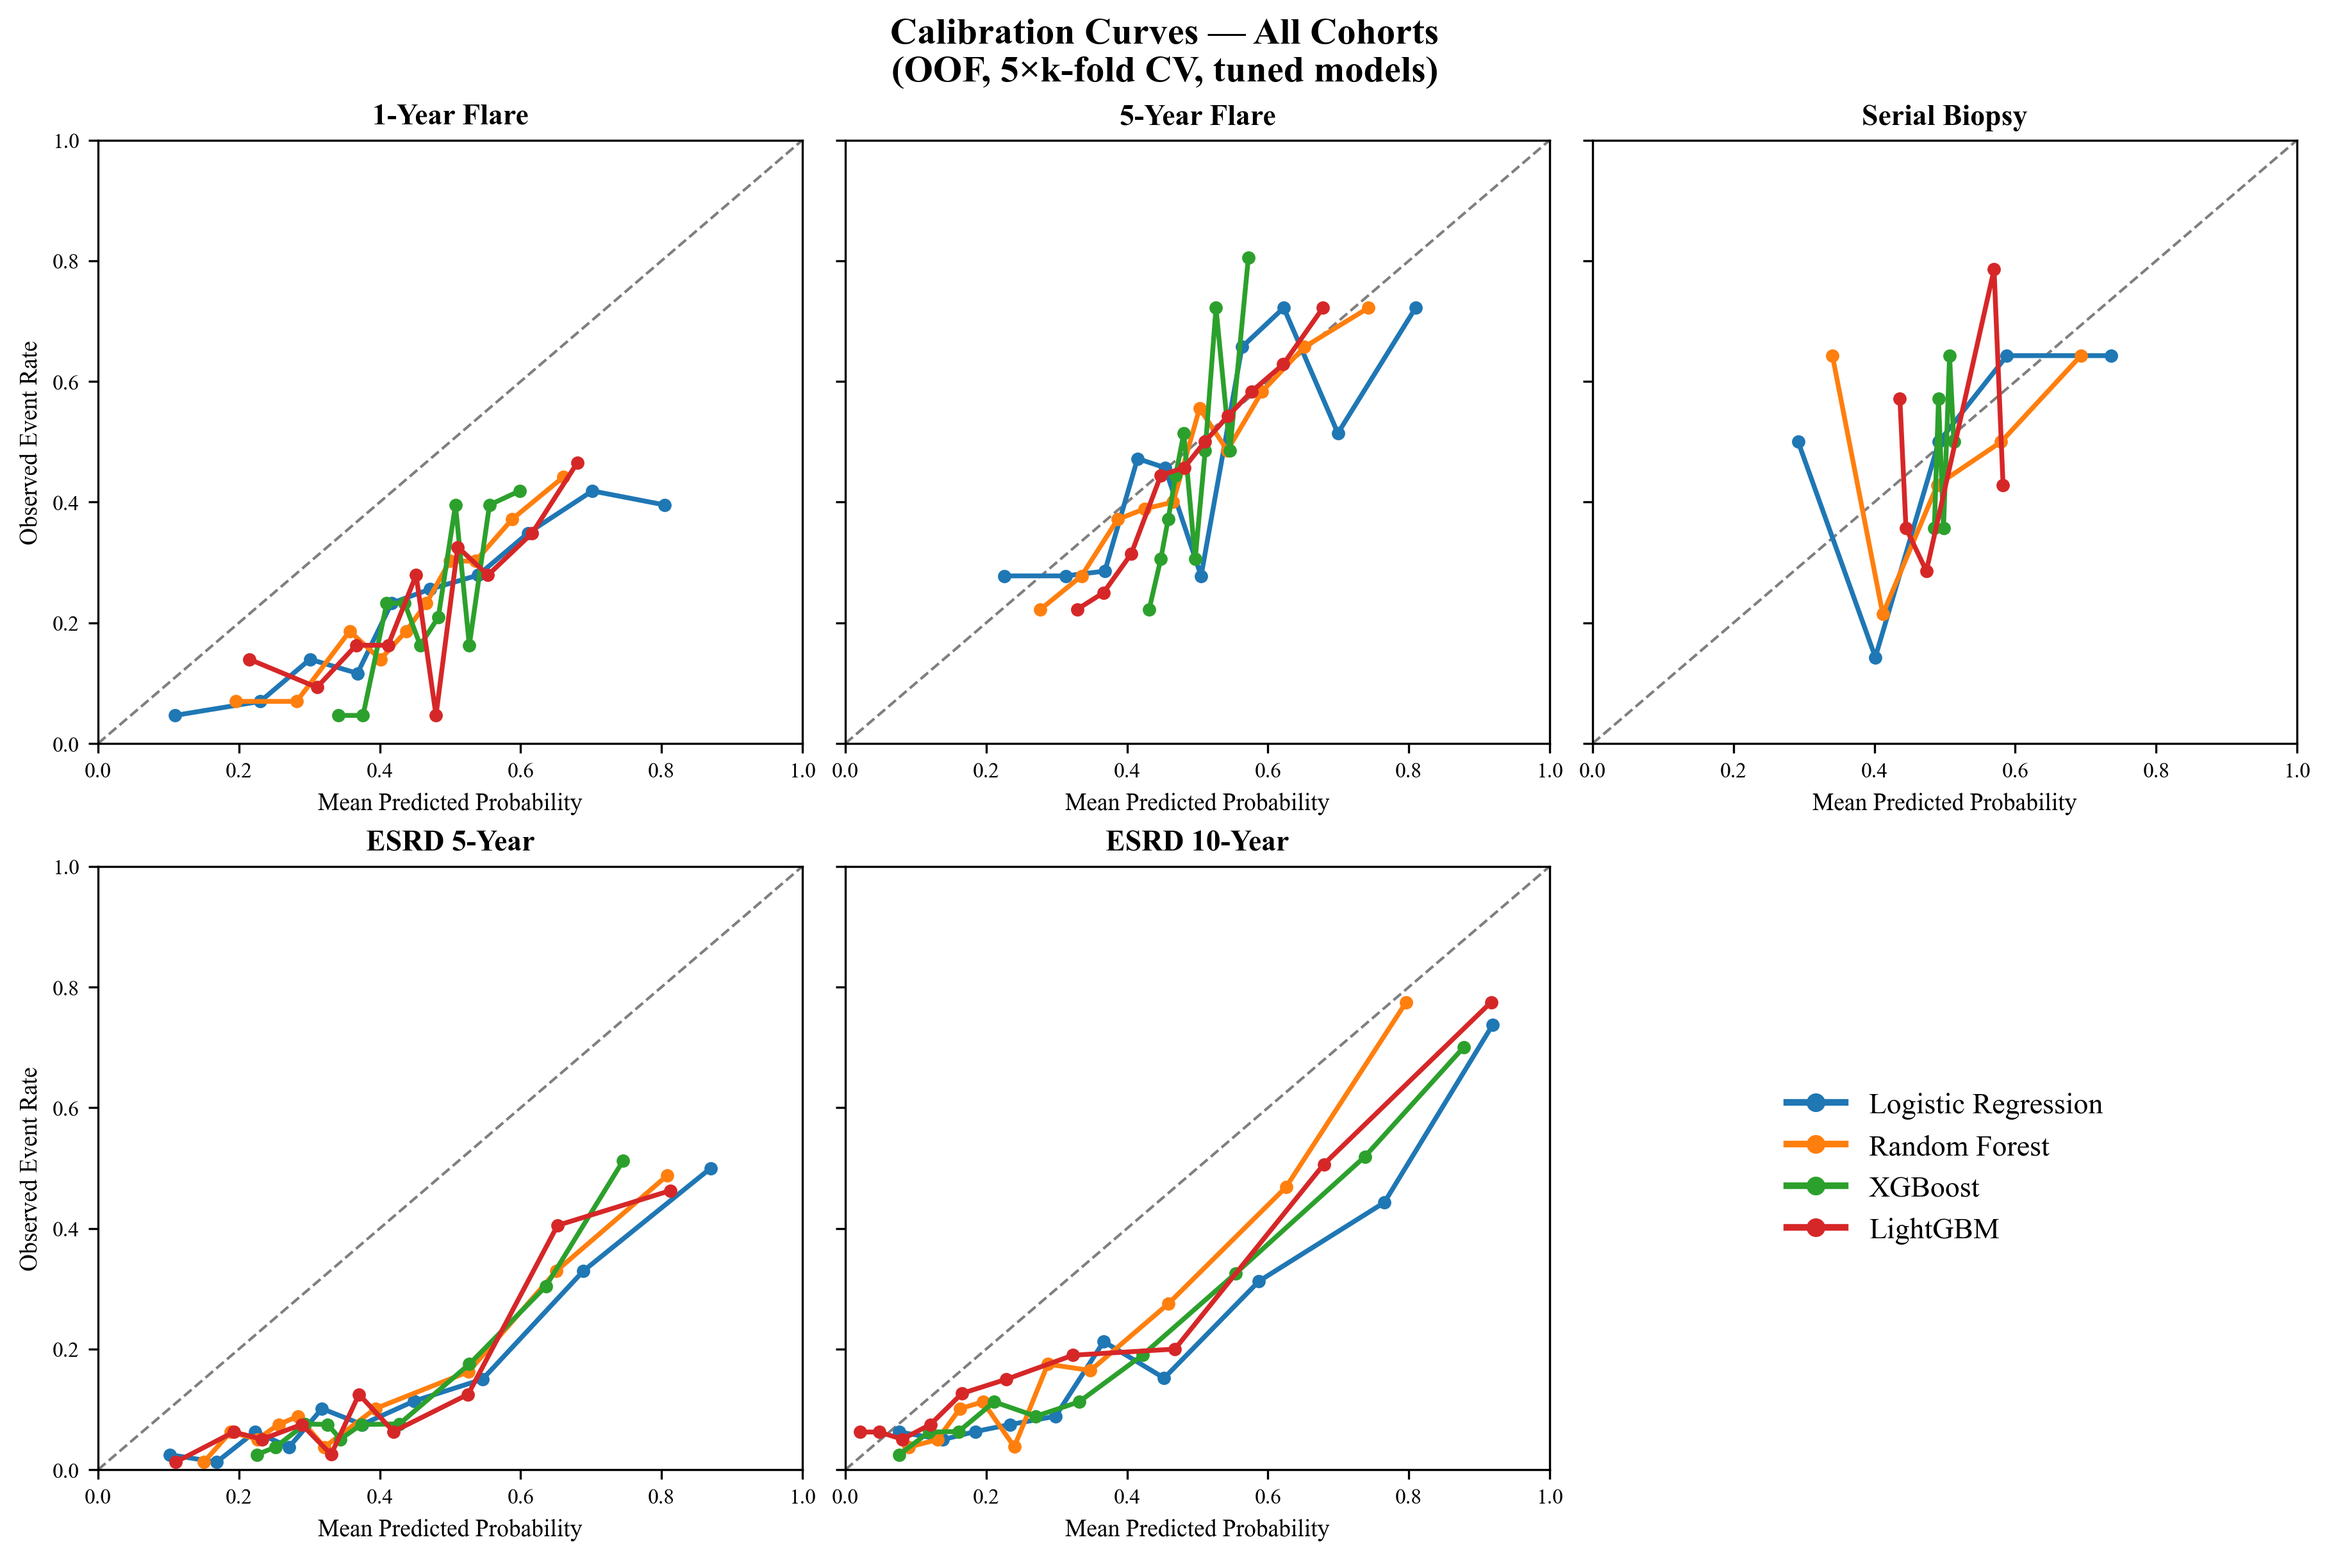
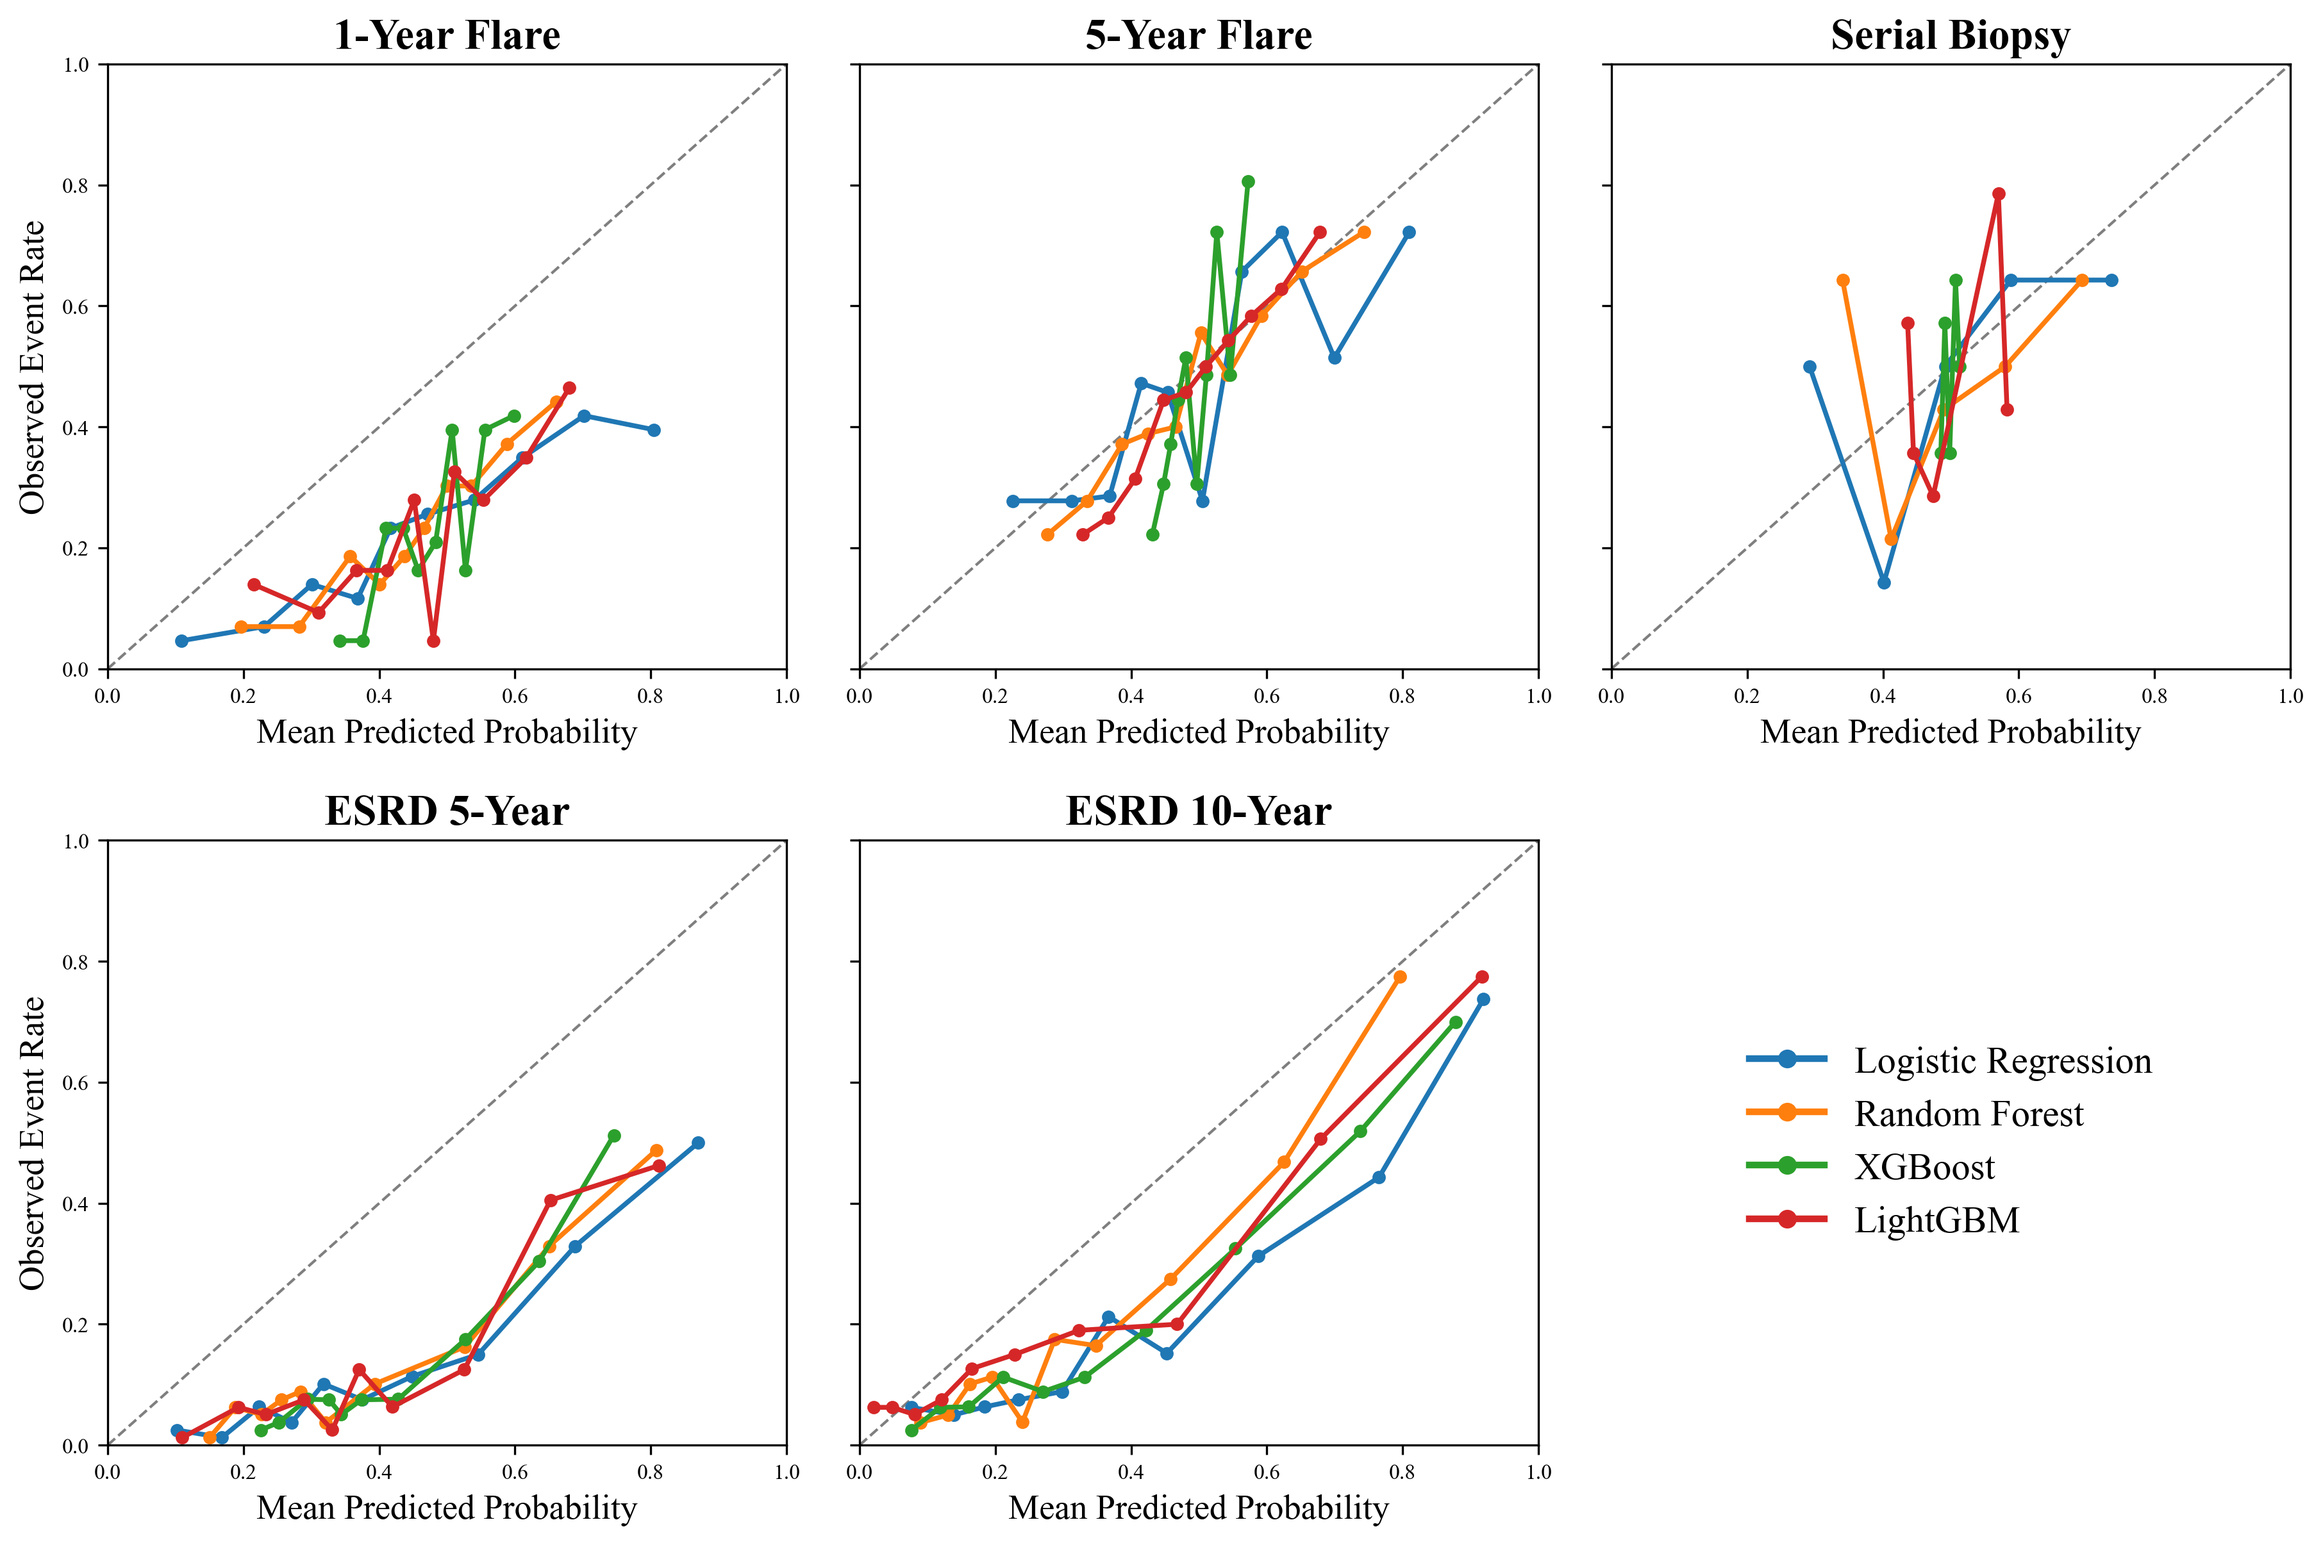
Apply matching publication styling to calibration figure; move ROC annotation box
Calibration figure: no title, panel titles 11->16pt, axis labels 9->13pt,
legend 11->14pt, more inter-panel spacing - matching the ROC figure.

ROC figure: moved the per-panel model:AUROC annotation box from top-left
(where it overlapped the curves) to bottom-right, which is empty space for
every cohort since all curves rise from bottom-left toward top-right.

diff --git a/src/16_roc_calibration_plots.py b/src/16_roc_calibration_plots.py
@@ -237,8 +237,8 @@ for i, (c, res) in enumerate(zip(cohorts, all_results)):
         ax.plot(r["fpr"], r["tpr"], color=MODEL_COLORS[name], lw=1.8)
         annot_lines.append(f"{name}: {r['cv_auroc']:.3f}")
 
-    ax.text(0.03, 0.97, "\n".join(annot_lines), transform=ax.transAxes,
-            fontsize=10.5, va="top", ha="left",
+    ax.text(0.97, 0.03, "\n".join(annot_lines), transform=ax.transAxes,
+            fontsize=10.5, va="bottom", ha="right",
             bbox=dict(boxstyle="round,pad=0.3", facecolor="white", edgecolor="0.7", alpha=0.85))
 
     ax.set_xlim([0, 1]); ax.set_ylim([0, 1])
@@ -279,21 +279,22 @@ for i, (c, res) in enumerate(zip(cohorts, all_results)):
         ax.plot(mean_pred, frac_pos, "o-", color=MODEL_COLORS[name], lw=1.8, markersize=4)
 
     ax.set_xlim([0, 1]); ax.set_ylim([0, 1])
-    ax.set_title(c["label"], fontsize=11, fontweight="bold")
-    ax.set_xlabel("Mean Predicted Probability", fontsize=9)
+    ax.set_title(c["label"], fontsize=16, fontweight="bold")
+    ax.set_xlabel("Mean Predicted Probability", fontsize=13)
     if col == 0:
-        ax.set_ylabel("Observed Event Rate", fontsize=9)
+        ax.set_ylabel("Observed Event Rate", fontsize=13)
     else:
         ax.set_yticklabels([])
     ax.tick_params(labelsize=8)
+
+fig_cal.get_layout_engine().set(w_pad=0.06, h_pad=0.08, wspace=0.06, hspace=0.06)
 
 legend_row, legend_col = panel_position(len(cohorts))
 legend_ax = axes_cal[legend_row, legend_col]
 legend_ax.axis("off")
 legend_handles = [plt.Line2D([0], [0], color=MODEL_COLORS[name], lw=2.5, marker="o") for name in MODEL_ORDER]
-legend_ax.legend(legend_handles, MODEL_ORDER, loc="center", fontsize=11, frameon=False)
+legend_ax.legend(legend_handles, MODEL_ORDER, loc="center", fontsize=14, frameon=False)
 
-fig_cal.suptitle("Calibration Curves — All Cohorts\n(OOF, 5×k-fold CV, tuned models)", fontsize=14, fontweight="bold")
 fig_cal.savefig(f"{FIG_DIR}/calibration_all_cohorts.png", dpi=300, bbox_inches="tight")
 plt.close(fig_cal)
 print(f"Saved: {FIG_DIR}/calibration_all_cohorts.png")
